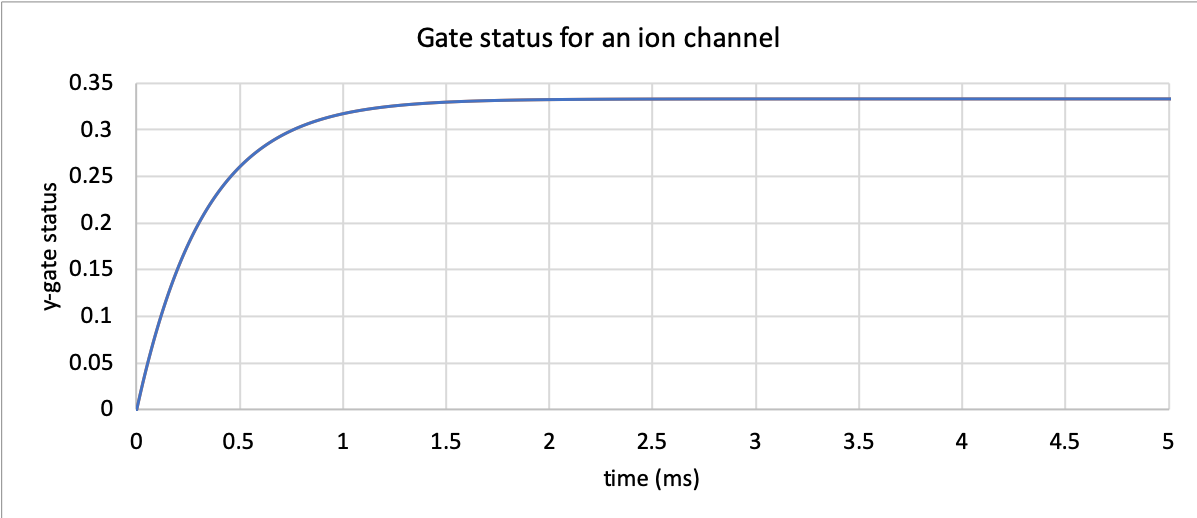
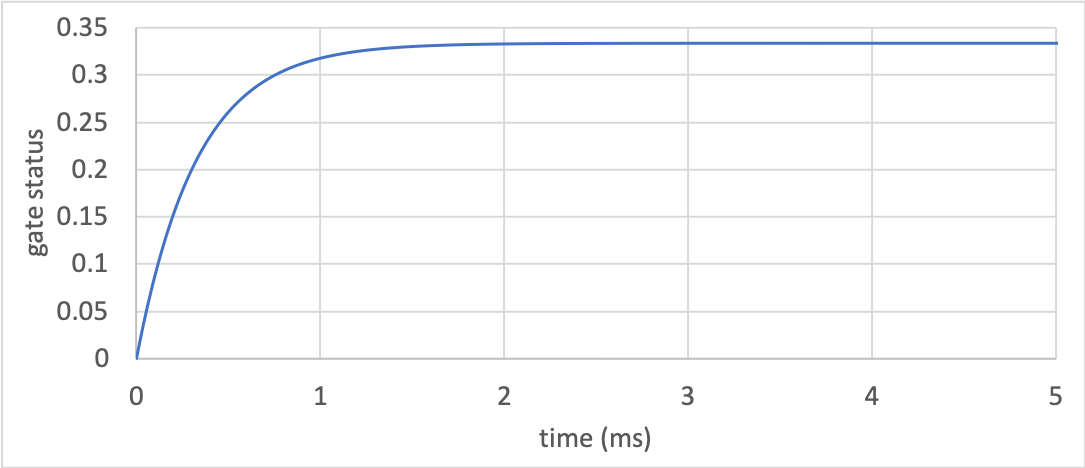
figures for ion gates theory

diff --git a/docs/theory/theory_iongates.rst b/docs/theory/theory_iongates.rst
@@ -14,8 +14,8 @@ The theory here is the basis for the the practical modelling tutorial in
 .. contents::
    :local:
 
-Theory
-------
+Understanding entropy
+---------------------
 A good example of a model based on a first order equation is the one
 used by Hodgkin and Huxley :cite:`10` to describe the gating behaviour of an
 ion channel. Before we describe the
@@ -35,6 +35,7 @@ driving an ion through the pore is calculated from the change in
     :name: distribution_microstates
     :alt: Distribution of microstates
     :align: center
+    :width: 50%
 
     Distribution of microstates in a system :cite:`11`. The 16 particles in a
     confined region (left) have only one possible arrangement (:math:`W=1`) and
@@ -102,14 +103,7 @@ where
 is the 'universal gas constant'\ [#]_. At 25°C (:math:`298K`)
 :math:`{RT} \approx 2.5 \text{ }(kJ.mol^{-1})`.
 
-.. figure:: images/balance_forces.png
-   :name: ocr_tut_bal_force
-   :alt: Balance of entropic and electrostatic forces
-   :align: right
-   :figwidth: 250
 
-   The balance between :purple:`entropic` and :red:`electrostatic` forces
-   determines the Nernst potential.
 
 Every positively charged ion that crosses the membrane raises the
 potential difference and produces an electrostatic driving force that
@@ -149,11 +143,20 @@ where :math:`E_{Y}` is the "equilibrium" or "Nernst" potential for
 :math:`\frac{{RT}}{F} =
 \frac{2.5\times10^{3}\ }{0.96\times10^{5}}\text{ }(J.C^{-1}) \approx 25mV`.
 
+.. figure:: images/balance_forces.png
+   :name: ocr_tut_bal_force
+   :alt: Balance of entropic and electrostatic forces
+   :align: right
+   :width: 45%
+
+   The balance between :purple:`entropic` and :red:`electrostatic` forces
+   determines the Nernst potential.
+
 .. figure:: images/open_ch_linear_iv.png
    :name: ocr_tut_open_ch_iv
    :alt: Open channel linear IV
    :align: right
-   :figwidth: 250
+   :width: 45%
 
    Open channel linear current-voltage relation
 
@@ -173,8 +176,7 @@ open channel conductance.
 .. figure:: images/ion_ch_gating.png
    :name: ocr_tut_ion_ch_gating
    :alt: Ion channel gating kinetics
-   :align: right
-   :figwidth: 250
+   :figwidth: 45%
 
    Ion channel gating kinetics. :math:`y` is the fraction of gates in the open
    state. :math:`\alpha_n` and :math:`\beta_n` are the rate constants for
@@ -183,8 +185,7 @@ open channel conductance.
 .. figure:: images/transient_beh_gates.png
    :name: ocr_tut_trans_gate_beh
    :alt: Transient gate behaviour
-   :align: right
-   :figwidth: 250
+   :figwidth: 45%
 
    Transient behaviour for one gate (left) and γ gates in series (right). Note
    that the right hand graph has an initial S-shaped increase, reflecting the
@@ -249,7 +250,7 @@ is the steady state current through the open gate.
    :alt: Gate status for a single gate
    :align: center
 
-   Gate status for one gate
+   Dynamics of opening status for a single gate
 
 .. _ion_current:
 .. figure:: images/tut5_current.png
